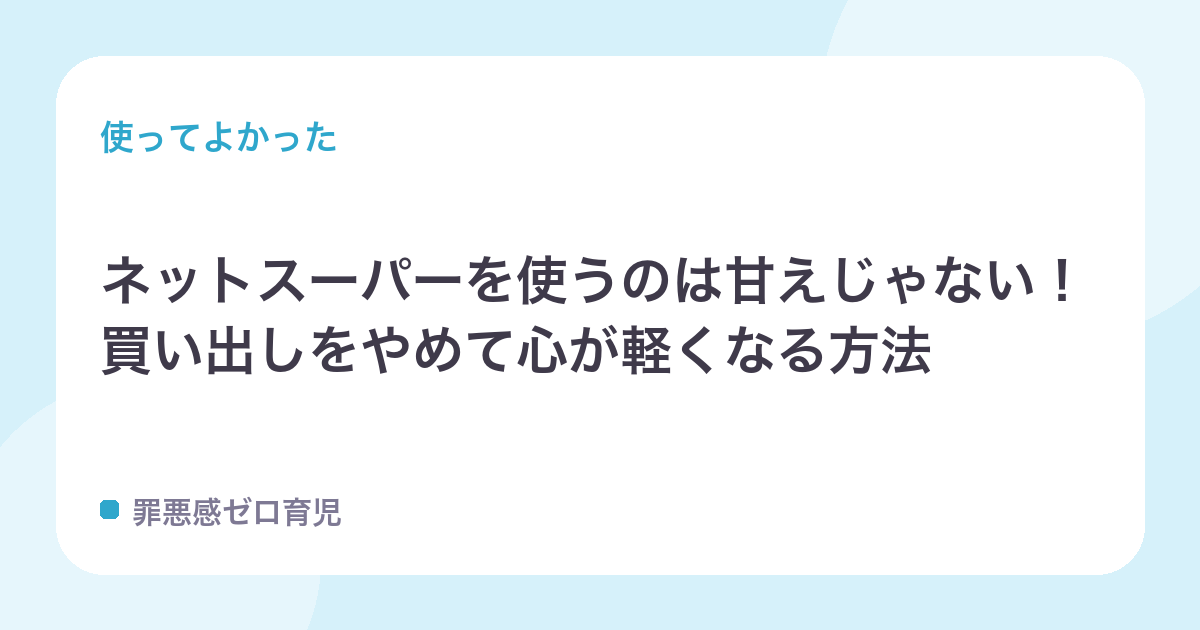
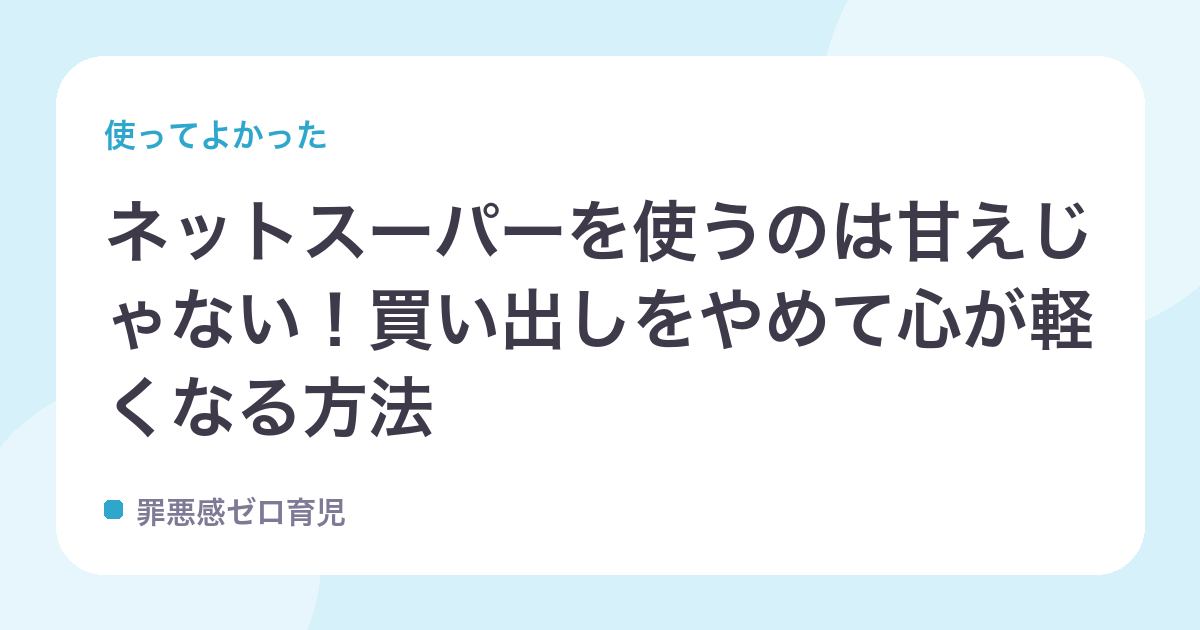
fix(thumb): カードの見出しが枠からはみ出す問題を恒久修正 — 文字数推定をやめ Pillow で実測折り返し
- _layout_card: フォントを実際に描いて textlength() で計測。白パネル内(幅992px)に
  必ず収まるよう、66→32px の中から収まる最大サイズを選ぶ。3行超は末尾を…で締める
- 区切りの良い位置（句読点・助詞・括弧）で改行
- サブ/サイト名も実測で縮める。描画域の定数化
- 既存カード19枚を再生成（はみ出し解消を確認）
今後の自動生成も同ロジックなので再発しない

Changed region(s): [[0.0617, 0.3016, 0.925, 0.6937], [0.0925, 0.7841, 0.3083, 0.8444], [0.0617, 0.181, 0.2775, 0.2413]]

diff --git a/scripts/gen/thumbnail.py b/scripts/gen/thumbnail.py
@@ -56,52 +56,62 @@ def _font(size: int):
         return ImageFont.truetype(p, size, index=0)
 
 
-# ---------------------------------------------------------------- 見出しの折り返し
-def _greedy_wrap(text: str, n: int, max_lines: int = 3) -> list[str]:
-    prefer = set("、。，．・！？!?」』）)")
+# ---------------------------------------------------------------- 見出しの折り返し（実測ベース）
+# 折り返してよい区切り（この直後で改行できる）。句読点・助詞・閉じ括弧など。
+_BREAK_AFTER = set("、。，．・！？!?」』）)】〕〉》")
+_BREAK_BEFORE = set("「『（(【〔〈《")
+
+
+def _wrap_measured(draw, text: str, font, max_w: int, max_lines: int) -> list[str] | None:
+    """font で描いたとき各行が max_w 以内に収まるよう折り返す。
+    max_lines を超える／1文字も入らない場合は None。"""
     lines: list[str] = []
     cur = ""
-    i = 0
-    while i < len(text):
-        cur += text[i]
-        i += 1
-        if len(cur) >= n and (text[i - 1] in prefer or len(cur) >= n + 2):
-            lines.append(cur.strip())
-            cur = ""
-            if len(lines) >= max_lines:
-                break
-    if cur and len(lines) < max_lines:
-        lines.append(cur.strip())
-        cur = ""
-    if i < len(text):
-        rest = (cur + text[i:]).strip()
-        if lines:
-            lines[-1] = (lines[-1] + rest)[: n - 1].rstrip() + "…"
-        else:
-            lines = [rest[: n - 1] + "…"]
-    return [ln for ln in lines if ln]
+    for ch in text:
+        trial = cur + ch
+        if draw.textlength(trial, font=font) <= max_w:
+            cur = trial
+            continue
+        # cur が現在行。区切りの良い位置まで戻して改行する
+        cut = cur
+        if cur and cur[-1] not in _BREAK_AFTER and ch not in _BREAK_BEFORE:
+            for k in range(len(cur) - 1, max(0, len(cur) - 8), -1):
+                if cur[k - 1] in _BREAK_AFTER or cur[k] in _BREAK_BEFORE:
+                    cut = cur[:k]
+                    break
+        rest = cur[len(cut):] + ch
+        if not cut:  # 1文字も入らない
+            return None
+        lines.append(cut)
+        cur = rest
+        if len(lines) >= max_lines:
+            # まだ文字が残る → 最終行を省略記号で締める
+            remaining = cur + text[text.index(ch) + 1:] if ch in text else cur
+            last = lines[-1]
+            while last and draw.textlength(last + "…", font=font) > max_w:
+                last = last[:-1]
+            lines[-1] = (last + "…") if remaining.strip() else last
+            return lines
+    if cur:
+        lines.append(cur)
+    return lines[:max_lines] if lines else None
 
 
-def _balance2(text: str) -> list[str]:
-    mid = len(text) // 2
-    good = set("、。，・！？!?」』）)")
-    particle = set("はがをにでとへやもの")
-    for off in range(0, mid - 2):
-        for j in (mid - off, mid + off):
-            if 4 <= j <= len(text) - 4 and (text[j - 1] in good or text[j - 1] in particle):
-                return [text[:j].strip(), text[j:].strip()]
-    return [text[:mid].strip(), text[mid:].strip()]
-
-
-def _layout(headline: str) -> tuple[list[str], int]:
-    text = headline.replace("\n", " ").strip()
-    for chars, fs in ((14, 66), (16, 58), (19, 52), (23, 44)):
-        lines = _greedy_wrap(text, chars, max_lines=3)
-        if lines and max(len(ln) for ln in lines) <= chars + 1:
-            if len(lines) == 1 and len(lines[0]) >= 15:
-                return _balance2(lines[0]), 58
-            return lines, fs
-    return _greedy_wrap(text, 23, max_lines=3), 44
+def _layout_card(draw, headline: str, max_w: int, max_h: int):
+    """収まる中で最大のフォントサイズと行を返す。必ず max_w×max_h に収める。"""
+    text = " ".join(headline.split())
+    for fs in (66, 60, 54, 48, 44, 40, 36, 32):
+        font = _font(fs)
+        lines = _wrap_measured(draw, text, font, max_w, max_lines=3)
+        if not lines:
+            continue
+        lh = int(fs * 1.34)
+        if lh * len(lines) <= max_h and all(draw.textlength(ln, font=font) <= max_w for ln in lines):
+            return lines, fs, lh
+    # 最小でも収まらない（極端に長い）→ 32px で3行に強制詰め
+    font = _font(32)
+    lines = _wrap_measured(draw, text, font, max_w, max_lines=3) or [text[:20] + "…"]
+    return lines, 32, 43
 
 
 # ---------------------------------------------------------------- カード描画（Pillow）
@@ -119,18 +129,32 @@ def _render_card(slug: str, headline: str, sub: str, accent: str) -> str:
     d.ellipse((-40, 380, 320, 740), fill=(255, 255, 255, 100))
     d.rounded_rectangle((56, 56, 1144, 574), radius=48, fill="#FFFFFF")
 
-    d.text((100, 120), sub.strip(), font=_font(34), fill=ink)
+    # レイアウト定数（白パネル内の描画可能域）
+    PAD_L = 104
+    TEXT_W = 992  # 104 〜 1096
+    SUB_Y = 118
+    SITE_Y = 498
+    HEAD_TOP = SUB_Y + 66
+    HEAD_BOTTOM = SITE_Y - 24  # 見出しはこの範囲に必ず収める
 
-    lines, fs = _layout(headline)
-    lh = int(fs * 1.36)
-    y = 315 - lh * (len(lines) - 1) // 2 - fs // 2
+    # サブ（タイプ名）— 長すぎたら縮める
+    sub = " ".join((sub or "").split())
+    sf = _font(32)
+    while sub and d.textlength(sub, font=sf) > TEXT_W:
+        sub = sub[:-1]
+    d.text((PAD_L, SUB_Y), sub, font=sf, fill=ink)
+
+    # 見出し — 実測で必ず枠内に収める
+    lines, fs, lh = _layout_card(d, headline, TEXT_W, HEAD_BOTTOM - HEAD_TOP)
     hf = _font(fs)
+    block_h = lh * len(lines)
+    y = HEAD_TOP + max(0, (HEAD_BOTTOM - HEAD_TOP - block_h) // 2)
     for ln in lines:
-        d.text((100, y), ln, font=hf, fill=_HEAD)
+        d.text((PAD_L, y), ln, font=hf, fill=_HEAD)
         y += lh
 
-    d.rounded_rectangle((100, 500, 118, 518), radius=5, fill=ink)
-    d.text((132, 496), "罪悪感ゼロ育児", font=_font(30), fill=_SITE)
+    d.rounded_rectangle((PAD_L, SITE_Y + 2, PAD_L + 18, SITE_Y + 20), radius=5, fill=ink)
+    d.text((PAD_L + 32, SITE_Y - 2), "罪悪感ゼロ育児", font=_font(30), fill=_SITE)
 
     THUMBS.mkdir(parents=True, exist_ok=True)
     out = THUMBS / f"{slug}.png"
